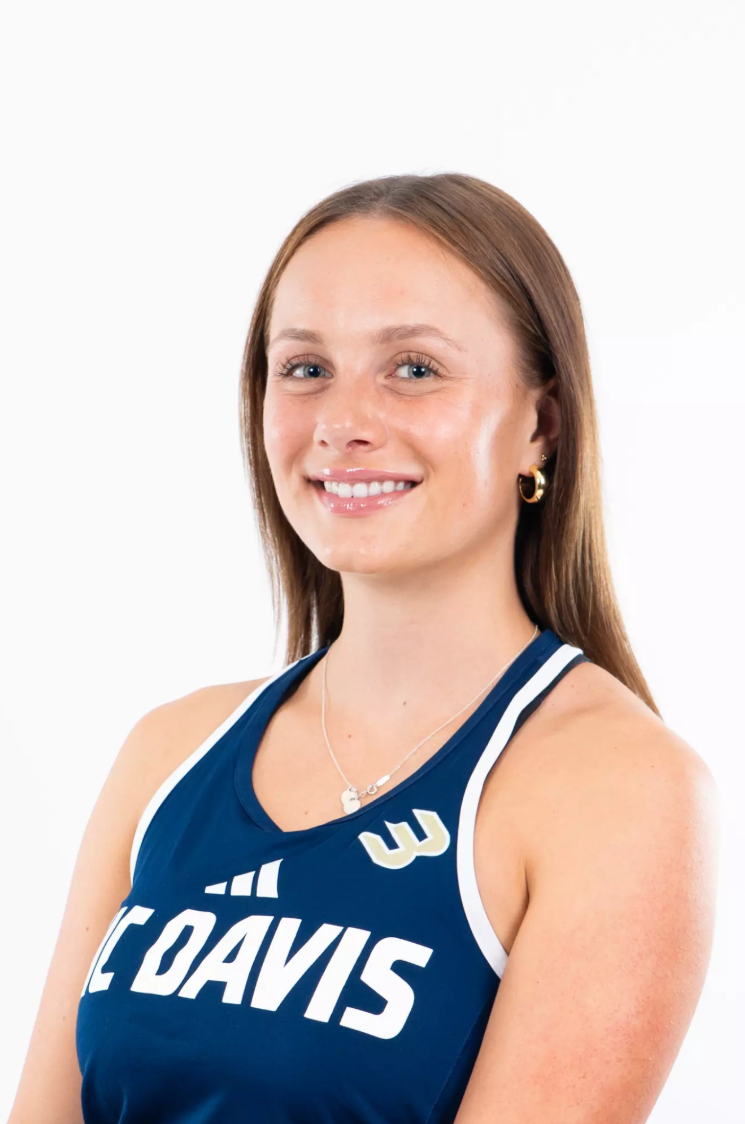
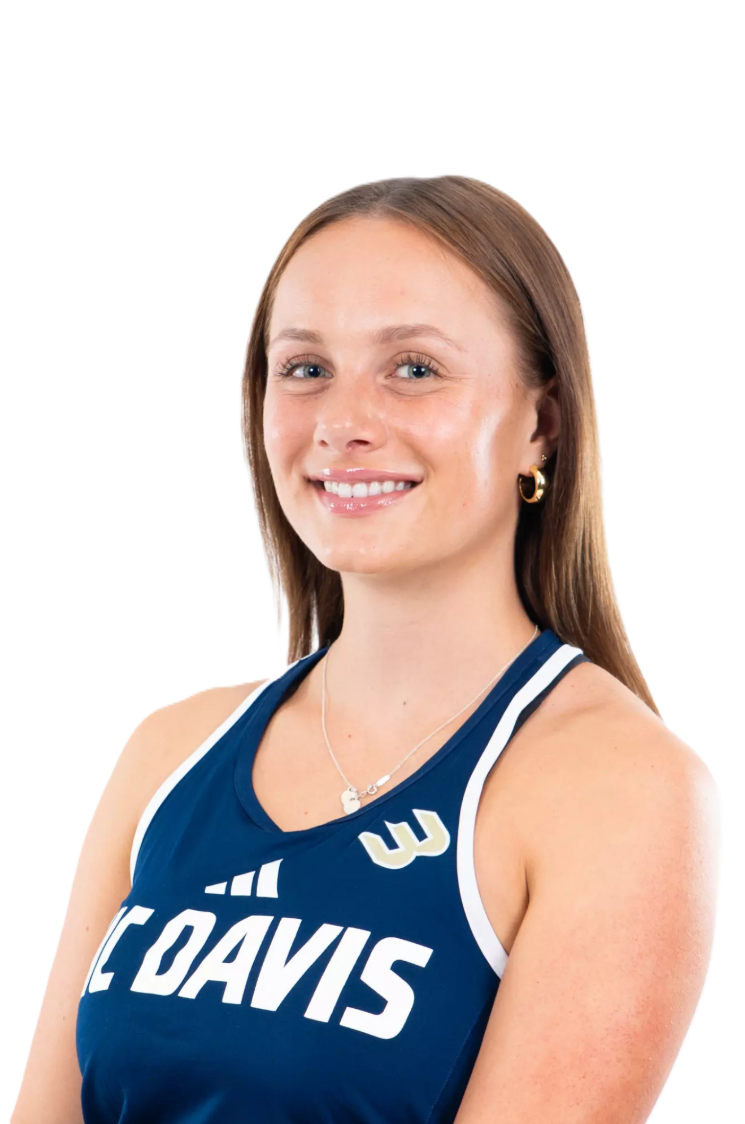
added error chart and tagged polinas match

diff --git a/app.py b/app.py
@@ -166,7 +166,7 @@ if uploaded_file is not None:
 
         col1, col2 = st.columns(2)
 
-        with col1:
+        with col1:  
             st.header("1st Serve Placement Chart")
             img = Image.open("serve_placement.png").convert("RGBA")
             draw = ImageDraw.Draw(img)
@@ -548,7 +548,55 @@ if uploaded_file is not None:
 
             st.plotly_chart(fig, use_container_width=True)
                     # Keep rows where winner exists
-    
+        
+        with col3:
+            # Only points the opponent won (i.e., player lost the point)
+            loss_points = df[df["C1: Who Won Point?"] == opponent].copy()
+
+            # Keep only the three outcomes we care about
+            categories = ["Unforced Error", "Double Fault", "Forced Error", f"{opponent} Winner"]
+            loss_points = loss_points[loss_points["F1: Error Type"].isin(categories)].copy()
+
+            # Count each category (ensure missing categories appear as 0)
+            counts = (
+                loss_points["F1: Error Type"]
+                .value_counts()
+                .reindex(categories, fill_value=0)
+            )
+
+            summary = pd.DataFrame({
+                "Category": counts.index,
+                "Count": counts.values
+            })
+
+            # Add percent of these three (optional but nice for labels)
+            total = summary["Count"].sum()
+            summary["Percent"] = summary["Count"].div(total).mul(100).round(1) if total > 0 else 0
+
+            # Single stacked bar needs a constant x
+            summary["Bar"] = "Errors Breakdown"
+
+            fig = px.bar(
+                summary,
+                x="Bar",
+                y="Count",
+                color="Category",
+                text=summary.apply(lambda r: f'{int(r["Count"])} ({r["Percent"]}%)', axis=1),
+                title="Errors Breakdown",
+                subtitle="This chart shows the distribution of how you lost points",
+                barmode="stack"
+            )
+
+            fig.update_traces(textposition="inside")
+
+            fig.update_layout(
+                xaxis_title="",
+                yaxis_title="Count",
+                legend_title_text="",
+            )
+
+            st.plotly_chart(fig, width="content")
+                
 
 
     ###### Pressure Points Profile ######
